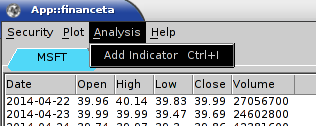
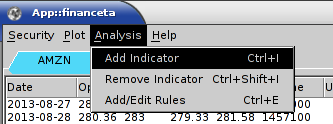
Updating usage and images as per the more recent GUI state

diff --git a/usage.html b/usage.html
@@ -270,7 +270,55 @@ browser.
 
 <h2 id="removinganindicator">Removing an Indicator</h2>
 
+<p>Once you have added one or more indicators, you may want to remove some that you
+do not like or do not want to use or think that you may want to change
+parameters for them. The simplest way to do this is by using the <em>&#8216;Remove
+Indicator&#8217;</em> menu option that we provide as shown in the image below.</p>
+
+<figure>
+<img src="./images/financeta_remove_indic.png" alt="Remove Indicator Option" title="Select 'Remove Indicator'" />
+<figcaption>Remove Indicator Option</figcaption></figure>
+
+<ul>
+<li>This starts a <em>remove indicator wizard</em> which lists all the tabs that the user
+has open along with each indicator per tab.</li>
+<li>The user has to select a security
+from the list of tabs and then pick the indicator that they want to remove and
+hit the <em>OK</em> button.</li>
+</ul>
+
+<figure>
+<img src="./images/financeta_wiz_remove.png" alt="Remove Indicator Wizard" title="Remove Indicator Wizard" />
+<figcaption>Remove Indicator Wizard</figcaption></figure>
+
+<ul>
+<li>Once this is done, the tab data display and the plots will automatically
+ update.</li>
+</ul>
+
 <h2 id="addingrules">Adding Rules</h2>
+
+<h2 id="savingthestrategy">Saving the <em>Strategy</em></h2>
+
+<p>The concept of a <strong>strategy</strong> in <em>App::financeta</em> consists of a security that the
+user selects, a date range, a collection of indicators and rules for buying and
+selling. Using the <em>Save</em> menu option the user can save the required contents of
+a tab such as the security name, date ranges, indicator details and rules into a
+YAML file. Since YAML is easily readable and editable manually, the user can
+manually edit an existing <em>strategy</em> file and create multiples of them using any
+scripting language as well.</p>
+
+<p>Using the <em>Open</em> menu option the user can quickly open an existing <em>strategy</em>
+file and load its contents into the GUI. Since the <em>strategy</em> file does not
+store any data itself, it is easy to reuse it and share it with other users.</p>
+
+<figure>
+<img src="./images/financeta_sec_open.png" alt="Open Menu options" title="Open an existing Strategy" />
+<figcaption>Open Menu options</figcaption></figure>
+
+<figure>
+<img src="./images/financeta_sec_save.png" alt="Save Menu options" title="Save an existing Strategy" />
+<figcaption>Save Menu options</figcaption></figure>
 
 <p>Let us move on to understanding the indicators in the <a href="./indicators.html">next chapter</a>.</p>
 
@@ -289,7 +337,7 @@ browser.
     with your own intelligence. The application comes with no warranty. For more
     details refer the <a href="./license.html">license</a> page.</em>
     <br/><br/><p style="font-size:10px;">
-        This page was last updated on 2014-08-27 10:50:59 -0400.
+        This page was last updated on 2014-08-31 12:46:03 -0400.
     </p>
     </div></footer>
     

diff --git a/index.html b/index.html
@@ -82,6 +82,7 @@ on stocks.</p>
 <li><a href="./usage.html#selectinganindicator">Selecting an Indicator</a></li>
 <li><a href="./usage.html#removinganindicator">Removing an Indicator</a></li>
 <li><a href="./usage.html#addingrules">Adding Rules</a></li>
+<li><a href="./usage.html#savingthestrategy">Saving the <em>Strategy</em></a></li>
 </ol></li>
 <li><a href="./indicators.html">Indicators</a></li>
 <li><a href="./rules.html">Rules</a></li>
@@ -100,7 +101,7 @@ on stocks.</p>
     with your own intelligence. The application comes with no warranty. For more
     details refer the <a href="./license.html">license</a> page.</em>
     <br/><br/><p style="font-size:10px;">
-        This page was last updated on 2014-08-24 09:14:11 -0400.
+        This page was last updated on 2014-08-31 12:46:03 -0400.
     </p>
     </div></footer>
     

diff --git a/usage.md b/usage.md
@@ -182,7 +182,43 @@ Similarly one can add various indicators to the selected security tab.
 
 ## Removing an Indicator
 
+Once you have added one or more indicators, you may want to remove some that you
+do not like or do not want to use or think that you may want to change
+parameters for them. The simplest way to do this is by using the _'Remove
+Indicator'_ menu option that we provide as shown in the image below.
+
+![Remove Indicator Option](./images/financeta_remove_indic.png "Select 'Remove Indicator'")
+
+- This starts a _remove indicator wizard_ which lists all the tabs that the user
+has open along with each indicator per tab.
+- The user has to select a security
+from the list of tabs and then pick the indicator that they want to remove and
+hit the _OK_ button.
+
+![Remove Indicator Wizard](./images/financeta_wiz_remove.png "Remove Indicator Wizard")
+
+- Once this is done, the tab data display and the plots will automatically
+  update.
+
 ## Adding Rules
+
+## Saving the _Strategy_
+
+The concept of a __strategy__ in _App::financeta_ consists of a security that the
+user selects, a date range, a collection of indicators and rules for buying and
+selling. Using the _Save_ menu option the user can save the required contents of
+a tab such as the security name, date ranges, indicator details and rules into a
+YAML file. Since YAML is easily readable and editable manually, the user can
+manually edit an existing _strategy_ file and create multiples of them using any
+scripting language as well.
+
+Using the _Open_ menu option the user can quickly open an existing _strategy_
+file and load its contents into the GUI. Since the _strategy_ file does not
+store any data itself, it is easy to reuse it and share it with other users.
+
+![Open Menu options](./images/financeta_sec_open.png "Open an existing Strategy")
+
+![Save Menu options](./images/financeta_sec_save.png "Save an existing Strategy")
 
 Let us move on to understanding the indicators in the [next chapter](./indicators.html).
 

diff --git a/index.md b/index.md
@@ -30,5 +30,6 @@ on stocks.
     1. [Selecting an Indicator](./usage.html#selectinganindicator)
     1. [Removing an Indicator](./usage.html#removinganindicator)
     1. [Adding Rules](./usage.html#addingrules)
+    1. [Saving the _Strategy_](./usage.html#savingthestrategy)
 1. [Indicators](./indicators.html)
 1. [Rules](./rules.html)
